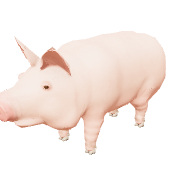
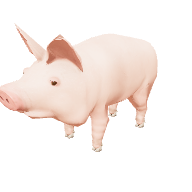
Piglet: the collar sits on its neck, and a rounder piglet with a short snout and big ears
The piglet's band stood out from its neck as a ring around the shoulders and
ears. Two new collar options for sculpted models (off by default, so every
other species is unchanged): taper (each edge of the band rests on the skin
under it, for a neck that widens into the shoulders) and wb / wbk (the band
follows mostly the given bones, so the pig's band no longer lifts off as a
loop when the head goes down to eat, adult or piglet). The pig's band also
hugs the piglet's neck a little farther forward (hug, babyAt).

The piglet was a shrunken sow: it now has a bigger head with a shorter snout
and bigger ears (modelSpec.baby) and a rounder, shorter body (its own baby
offsets, pig.py baby_offset, packed with modelpack.py --baby). The adult pig
body is unchanged. Baby menu icon redrawn.

Claude-Session: https://claude.ai/code/session_0178i5uP1kqJaH7MisS9wMjZ

diff --git a/game/src/40_animals.js b/game/src/40_animals.js
@@ -3331,6 +3331,8 @@ const Animals = (() => {
         C.ro = P.part === 'head' && P.z > 0.7 ? 0.42 : 0.6;
       },
       baby: { head: 1.35, muzzle: 0.75, eye: 1.15, ear: 0.82, body: [1.05, 1.05, 0.85], leg: [0.85, 1.05], tail: 0.6 },
+      // the sculpted piglet: a bigger head with a short snout and big ears on a short, round body
+      modelSpec: { baby: { head: 1.52, muzzle: 0.58, eye: 1.12, ear: 1.0, body: [1.1, 1.12, 0.74], leg: [0.85, 0.95], tail: 0.6 } },
       anim: {
         type: 'legged', walk: 1.0, trot: 2.0, run: 4.0, stride: 0.55, strideMax: 2.2,
         duty: [0.64, 0.4, 0.38], lift: [0.05, 0.05], flexF: 1.2, flexH: 0.8,
@@ -6110,8 +6112,21 @@ const Animals = (() => {
     const fl = M.fur ? M.fur.flen : null;
     const ed = [-hw, hw].map((s) => meshSlice(M.pos, M.idx, M.weights, C.clone().addScaledVector(T, s), T, S, Nv, ths, fl, cfg.maxR));
     const r = ths.map((_, j) => Math.max(ed[0][j].r, ed[1][j].r, s0[j].r));
+    // taper (optional): each edge rests on the skin under it (and the middle), so a band on a neck that widens into
+    // the shoulders does not stand off at its narrow edge; without it the band is as wide as the widest skin
+    const re = cfg.taper ? ed.map((q) => ths.map((_, j) => Math.max(q[j].r, s0[j].r))) : [r, r];
+    // wb (optional): the band follows only these bones (share wbk, default 1, of its weights), so a band that sits
+    // where the neck blends into the head does not lift off with the head when it goes down to eat
+    const bw = (w0) => {
+      if (!cfg.wb) return w0;
+      const w = w0.filter((p) => cfg.wb.includes(p[0])), t = w.reduce((a, p) => a + p[1], 0), k = cfg.wbk == null ? 1 : cfg.wbk, m = new Map();
+      if (!(t > 0)) return w0;
+      for (const p of w0) m.set(p[0], (1 - k) * p[1]);
+      for (const p of w) m.set(p[0], m.get(p[0]) + (k * p[1]) / t);
+      return Array.from(m.entries()).filter((p) => p[1] > 0).sort((p, q) => q[1] - p[1]).slice(0, 4);
+    };
     const pl = {
-      mesh: true, cfg, C, T, S, N: Nv, ths, rN, hw, r, w: ed.map((e) => e.map((q) => q.w || [['head', 1]])),
+      mesh: true, cfg, C, T, S, N: Nv, ths, rN, hw, r, re, w: ed.map((e) => e.map((q) => bw(q.w || [['head', 1]]))),
       thick: Math.max(0.055 * rN, 0.0005), gap: (0.025 + cfg.fit) * rN, tagR: 0.3 * rN * cfg.r, hang: new THREE.Vector3(), nOut: new THREE.Vector3(),
     };
     pl.tagLen = pl.tagR * 0.34 * 1.45 + pl.tagR * 2;
@@ -6147,7 +6162,7 @@ const Animals = (() => {
     const map = (p, w, o) => { o.set(0, 0, 0); for (const [n, ww] of w) o.addScaledVector(babyApply(ag.byName[n], p, _v1), ww); return o; };
     const q = new THREE.Vector3(), Pb = [[], []], C = new THREE.Vector3();
     for (let e = 0; e < 2; e++) for (let j = 0; j <= COLLAR_N; j++) {
-      q.copy(pl.C).addScaledVector(pl.T, e ? pl.hw : -pl.hw).add(pl.dir(pl.ths[j], _v2).multiplyScalar(pl.r[j]));
+      q.copy(pl.C).addScaledVector(pl.T, e ? pl.hw : -pl.hw).add(pl.dir(pl.ths[j], _v2).multiplyScalar(pl.re[e][j]));
       Pb[e].push(map(q, pl.w[e][j], new THREE.Vector3()));
       if (j < COLLAR_N) C.addScaledVector(Pb[e][j], 0.5 / COLLAR_N);
     }
@@ -6163,9 +6178,12 @@ const Animals = (() => {
     pl.push = [[], []];
     const rsl = pl.ths.map((_, j) => Math.max(sl[0][j].r, sl[1][j].r, sl[2][j].r));
     // a hugging band follows the neck's outline smoothed around the ring (no zigzag over small bumps)
-    const rsm = pl.cfg.hug ? rsl.map((_, j) => { let t = 0; for (let d = -2; d <= 2; d++) t += rsl[(((j + d) % COLLAR_N) + COLLAR_N) % COLLAR_N]; return t / 5; }) : rsl;
+    const sm = (a) => (pl.cfg.hug ? a.map((_, j) => { let t = 0; for (let d = -2; d <= 2; d++) t += a[(((j + d) % COLLAR_N) + COLLAR_N) % COLLAR_N]; return t / 5; }) : a);
+    const rsm = sm(rsl);
+    // a tapered band: each edge on its own slice (and the middle one)
+    const rse = pl.cfg.taper ? [0, 2].map((s) => sm(pl.ths.map((_, j) => Math.max(sl[s][j].r, sl[1][j].r)))) : null;
     for (let e = 0; e < 2; e++) for (let j = 0; j <= COLLAR_N; j++) {
-      const rs = rsm[j];
+      const rs = rse ? rse[e][j] : rsm[j];
       _v3.subVectors(Pb[e][j], C);
       if (pl.shiftB) _v3.add(pl.shiftB);
       _v3.addScaledVector(T, -_v3.dot(T));
@@ -6186,7 +6204,7 @@ const Animals = (() => {
     for (let j = 0; j <= N; j++) {
       pl.dir(pl.ths[j], D);
       for (let e = 0; e < 2; e++) {
-        P.copy(pl.C).addScaledVector(pl.T, e ? pl.hw : -pl.hw).addScaledVector(D, pl.r[j]);
+        P.copy(pl.C).addScaledVector(pl.T, e ? pl.hw : -pl.hw).addScaledVector(D, pl.re[e][j]);
         const w = pl.w[e][j], inner = P.clone().addScaledVector(D, pl.gap - dep), outer = P.clone().addScaledVector(D, pl.gap + pl.thick);
         const tn = pl.T.clone().multiplyScalar(e ? 1 : -1);
         const v = e ? [[outer, tn, 0.72, 1], [inner, tn, 0.72, 0.4]] : [[inner, tn, 0.72, 0.4], [outer, tn, 0.72, 1]], up = furOn ? sp.len * pl.fl[j] * COLLAR_LIFT : 0;

diff --git a/tools/blender/pig.py b/tools/blender/pig.py
@@ -538,6 +538,44 @@ def finish(C, ao, valid):
     return np.where(lin <= 0.0031308, lin * 12.92, 1.055 * np.power(np.maximum(lin, 0), 1 / 2.4) - 0.055)
 
 
+# ---------- the piglet's own shape ----------
+# Per vertex offsets in adult space (packed with the mesh, the game adds them through the bones' baby maps, which also
+# give the bigger head, short snout and big ears): the square sow's trunk turns into a rounder, egg shaped little
+# barrel (rump, shoulders and belly rounded off, the belly tucked up) so the piglet is not a shrunken sow.
+PIGLET = dict(c=V(0.0, 0.468, -0.05), r=(0.2, 0.228, 0.53), rb=0.19, e=2.05, k=1.0, maxd=0.06)
+
+
+def _egg_walk(Q, Nm):
+    g = PIGLET
+    egg = lambda X: superellipsoid(X, g['c'], g['r'], g['e'], rb=g['rb'])
+    # walk along the normal onto the egg (damped, capped)
+    X = Q.copy()
+    for _ in range(12):
+        X = X - Nm * np.clip(egg(X), -0.01, 0.01)[:, None]
+    d = X - Q
+    ln = np.linalg.norm(d, axis=1, keepdims=True)
+    return d * np.minimum(1, g['maxd'] / np.maximum(ln, 1e-9))
+
+
+def baby_offset(P, N, c):
+    Q = _mirror(P)
+    Nm = N.copy(); Nm[:, 0] = N[:, 0] * np.sign(P[:, 0] + 1e-9)
+    d = _egg_walk(Q, Nm)
+    # only the trunk: not the legs (faded over their top few centimeters), the head or the hooves
+    legd = np.minimum(c['fleg'], c['hleg'])
+    w = sstep(0.035, -0.01, c['trunk'] - legd)
+    w = w * sstep(-0.01, 0.04, c['head'] - c['trunk']) * sstep(0.34, 0.18, Q[:, 2])
+    w = w * sstep(0.02, 0.06, np.minimum(c['hoof'], c['dew']))
+    d = d * (w * PIGLET['k'])[:, None]
+    # the tail tube moves with the rump where it starts
+    tp, tr = tail_curve(40)
+    td = np.min(np.linalg.norm(P[:, None, :] - tp[None, :, :], axis=2) - tr[None, :], axis=1)
+    tb = _egg_walk(tp[:1].copy(), nrm([0, 0.4, -1.0]).reshape(1, 3)) * PIGLET['k']
+    d = np.where((td < 0.006)[:, None], tb, d)
+    d[:, 0] *= np.sign(P[:, 0] + 1e-9)
+    return d.astype(F)
+
+
 # ---------- what the game needs besides the mesh ----------
 MAP_QUALITY = (82, 85)   # WebP quality: color, normal
 
@@ -556,8 +594,11 @@ def meta(st):
         'eye': {'p': [round(float(v), 5) for v in EYE_C], 'r': round(r, 5), 'dir': [round(float(v), 4) for v in EYE_DIR], 'lid': [round(up, 3), round(dn, 3), 0.42],
                 'iris': 0x7C5434, 'irisR': 0.95, 'pupilR': 0.32, 'lidCol': st['lidCol'],
                 'lash': {'n': 11, 'len': 0.0095, 'col': 0xEFE2D2}},
-        # pigs have hardly any neck: the collar sits just behind the jowls
-        'collar': {'at': ['chest', 'neck', 0.92], 'w': 0.8},
+        # pigs have hardly any neck: the collar sits just behind the jowls, each edge on the skin under it (the neck
+        # widens into the shoulders), mostly on the chest and neck bones so it stays down when the head goes down to
+        # eat, and a little farther forward on the piglet, between its big head and its shoulders
+        'collar': {'at': ['chest', 'neck', 0.92], 'w': 0.8, 'hug': True, 'taper': True, 'babyAt': 1.15,
+                   'wb': ['chest', 'neck', 'armL', 'armR'], 'wbk': 0.6},
         'mouth': [round(float(v), 4) for v in MOUTH],
         'tint': [1.0, 1.0, 1.0], 'babyTint': [1.03, 0.98, 0.98],
     }

diff --git a/tools/blender/README.md b/tools/blender/README.md
@@ -71,8 +71,15 @@ placement written to the json) and `MAP_QUALITY`. `sdf.py` has the primitives, s
 Optional settings (defaults are the pig's): `TAIL_RINGS = 0` for an animal without a tail tube, `BAKE_DIST` (cage,
 ray and occlusion distances in meters, smaller for small animals), `DISSOLVE_DEGENERATE = True` (drop the zero area
 slivers the mirror cut leaves, so they do not use up the triangle budget). In `meta()`, the eye can ask for
-`irisNet` (a fine dark network over the iris, for frogs) and the collar for `tilt` (pitch of the band's plane) and
-`maxR` (ignore limbs farther out than this when slicing the neck).
+`irisNet` (a fine dark network over the iris, for frogs) and the collar for `tilt` (pitch of the band's plane),
+`maxR` (ignore limbs farther out than this when slicing the neck), `taper` (each edge of the band rests on the skin
+under it, for a neck that widens into the shoulders; otherwise the band is as wide as the widest skin across it) and
+`wb` / `wbk` (the band follows only these bones, for that share of its weights: the pig's band would otherwise lift
+off with the head when it eats). The baby's band: `babyAt`, `hug`, `babyK`, `babyMaxR` (see the birds).
+
+A species can give its baby its own shape with `baby_offset(P, N, parts)` (offsets in adult space per vertex, before
+the game's baby proportions; see the birds). The pig uses it for a rounder, shorter piglet (the trunk walks along its
+normals onto an egg, `PIGLET`), together with the game's `modelSpec.baby` (bigger head and ears, shorter snout).
 
 ## The frog (`frog.py`)
 
